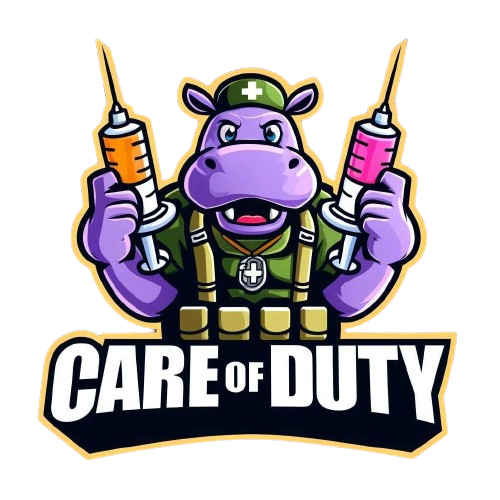
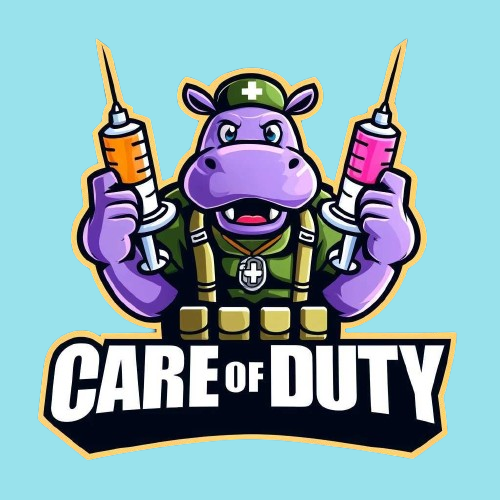
color index

diff --git a/assets/css/style.css b/assets/css/style.css
@@ -14,6 +14,10 @@ body {
   color: #444444;
 }
 
+.carousel-item {
+  background-color: #85DDE8;
+}
+
 a {
   color: #3fbbc0;
   text-decoration: none;
@@ -106,7 +110,7 @@ h6 {
 .carousel-img-bg {
   position: absolute;
   z-index: -1;
-  height: 38em;
+  height: 40em;
 }
 
 /*--------------------------------------------------------------
